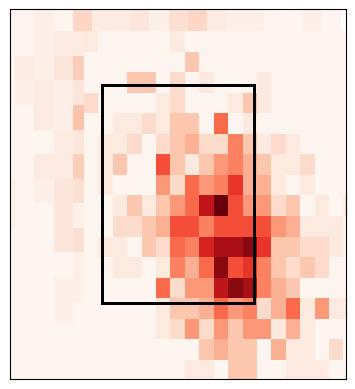
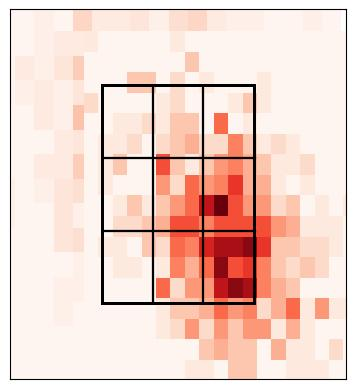
Added grid lines to the heat map

Changed region(s): [[0.2789, 0.2159, 0.7127, 0.7712]]

diff --git a/backend/create_heatmap.py b/backend/create_heatmap.py
@@ -32,6 +32,14 @@ def make_heat_map(pitch_type):
     custom_box = patches.Rectangle((-.9, 1.2), 1.8, 2.6, linewidth=2, edgecolor='black', facecolor='none', label='Custom Box')
     plt.gca().add_patch(custom_box)
 
+    # Create horizontal lines
+    for i in range(1, 3):
+        plt.axhline(y=1.2 + i * 2.6 / 3, xmin=.28, xmax=.73, color='black', linestyle='-')
+
+    # Create vertical lines
+    for i in range(1, 3):
+        plt.axvline(x=-.9 + i * 1.8 / 3, ymin=.21, ymax=.79, color='black', linestyle='-')
+
     # Remove the x and y-axis
     #plt.axis('off')
 
@@ -47,7 +55,7 @@ def make_heat_map(pitch_type):
     plt.yticks([])
 
     # Display the plot
-    # plt.show()
+    #plt.show()
 
     #Export the plot
     file_name = r"..\frontend\src\assets\\" + pitch_type + "_heat_map.jpg"
@@ -59,7 +67,7 @@ def make_heat_map(pitch_type):
 
 # This function is used to create the default strike zone
 def create_default_strike_zone():
-    path='../uploads/savant_data_2.csv'
+    path = '../uploads/savant_data_2.csv'
     df = pd.read_csv(path)
 
     # Extract values
@@ -82,6 +90,14 @@ def create_default_strike_zone():
     custom_box = patches.Rectangle((-.9, 1.2), 1.8, 2.6, linewidth=2, edgecolor='black', facecolor='none', label='Custom Box')
     plt.gca().add_patch(custom_box)
 
+    # Create horizontal lines
+    for i in range(1, 3):
+        plt.axhline(y=1.2 + i * 2.6 / 3, xmin=.28, xmax=.73, color='black', linestyle='-')
+
+    # Create vertical lines
+    for i in range(1, 3):
+        plt.axvline(x=-.9 + i * 1.8 / 3, ymin=.21, ymax=.79, color='black', linestyle='-')
+
     # Remove tics
     plt.xticks([])
     plt.yticks([])
@@ -89,7 +105,7 @@ def create_default_strike_zone():
     # Display the plot
     # plt.show()
 
-    #Export the plot
+    # Export the plot
     file_name = r"..\frontend\src\assets\default_heat_map.jpg"
     plt.savefig(file_name, bbox_inches='tight', pad_inches=0.1)
 
@@ -98,9 +114,9 @@ def main():
 
     create_default_strike_zone()
     make_heat_map("FF")
-    '''make_heat_map("SL")
+    make_heat_map("SL")
     make_heat_map("CU")
-    make_heat_map("CH")'''
+    make_heat_map("CH")
 
 
 main()
